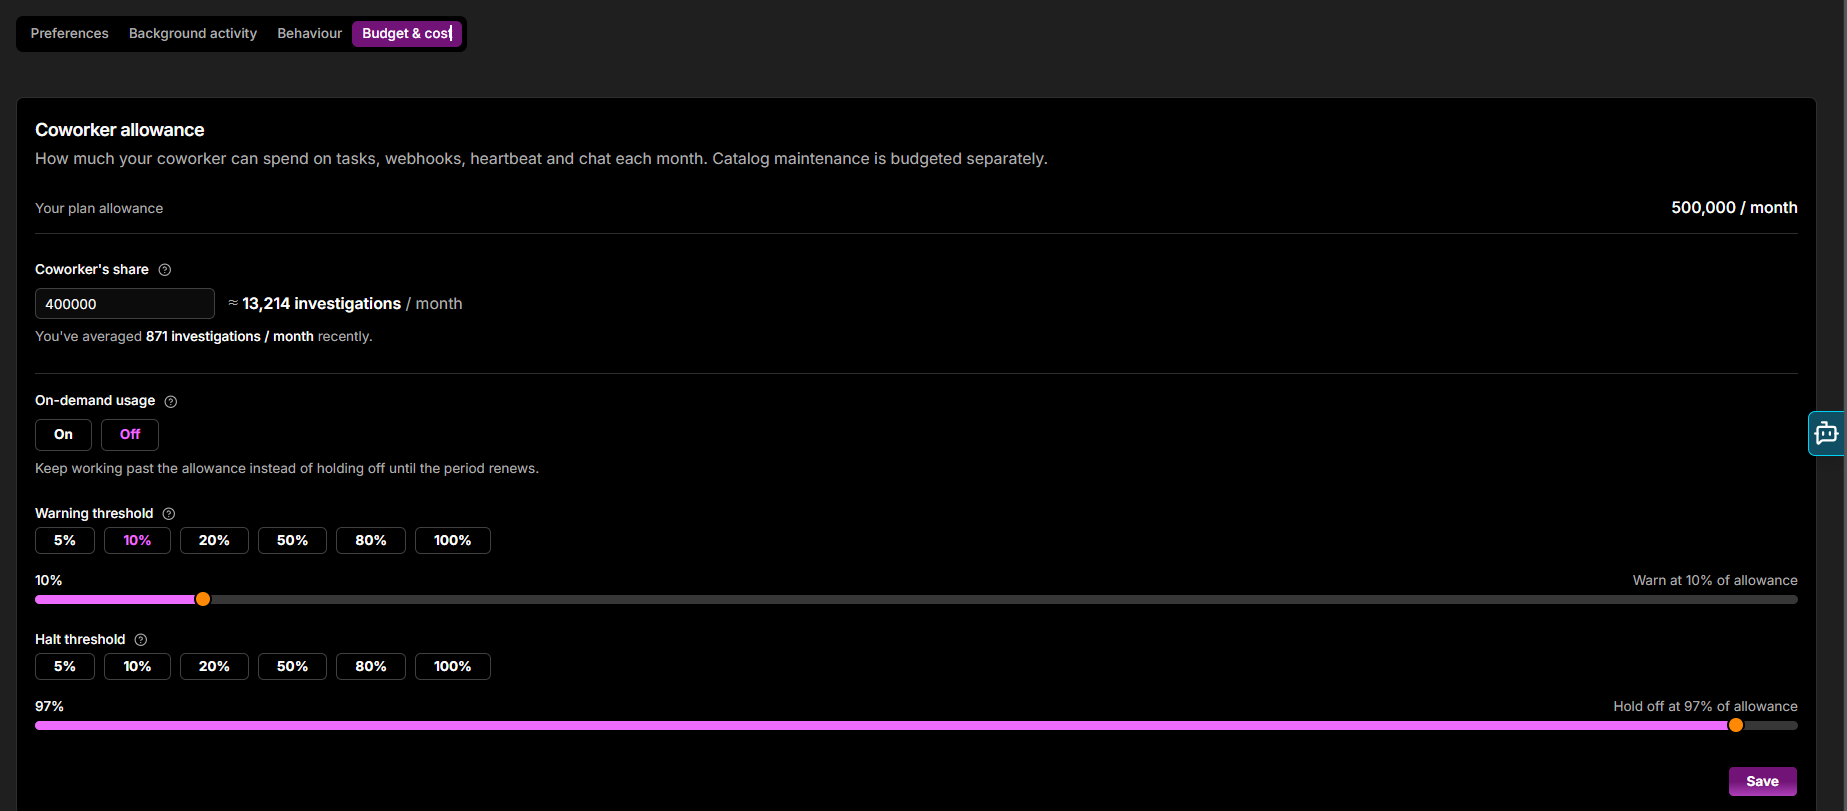
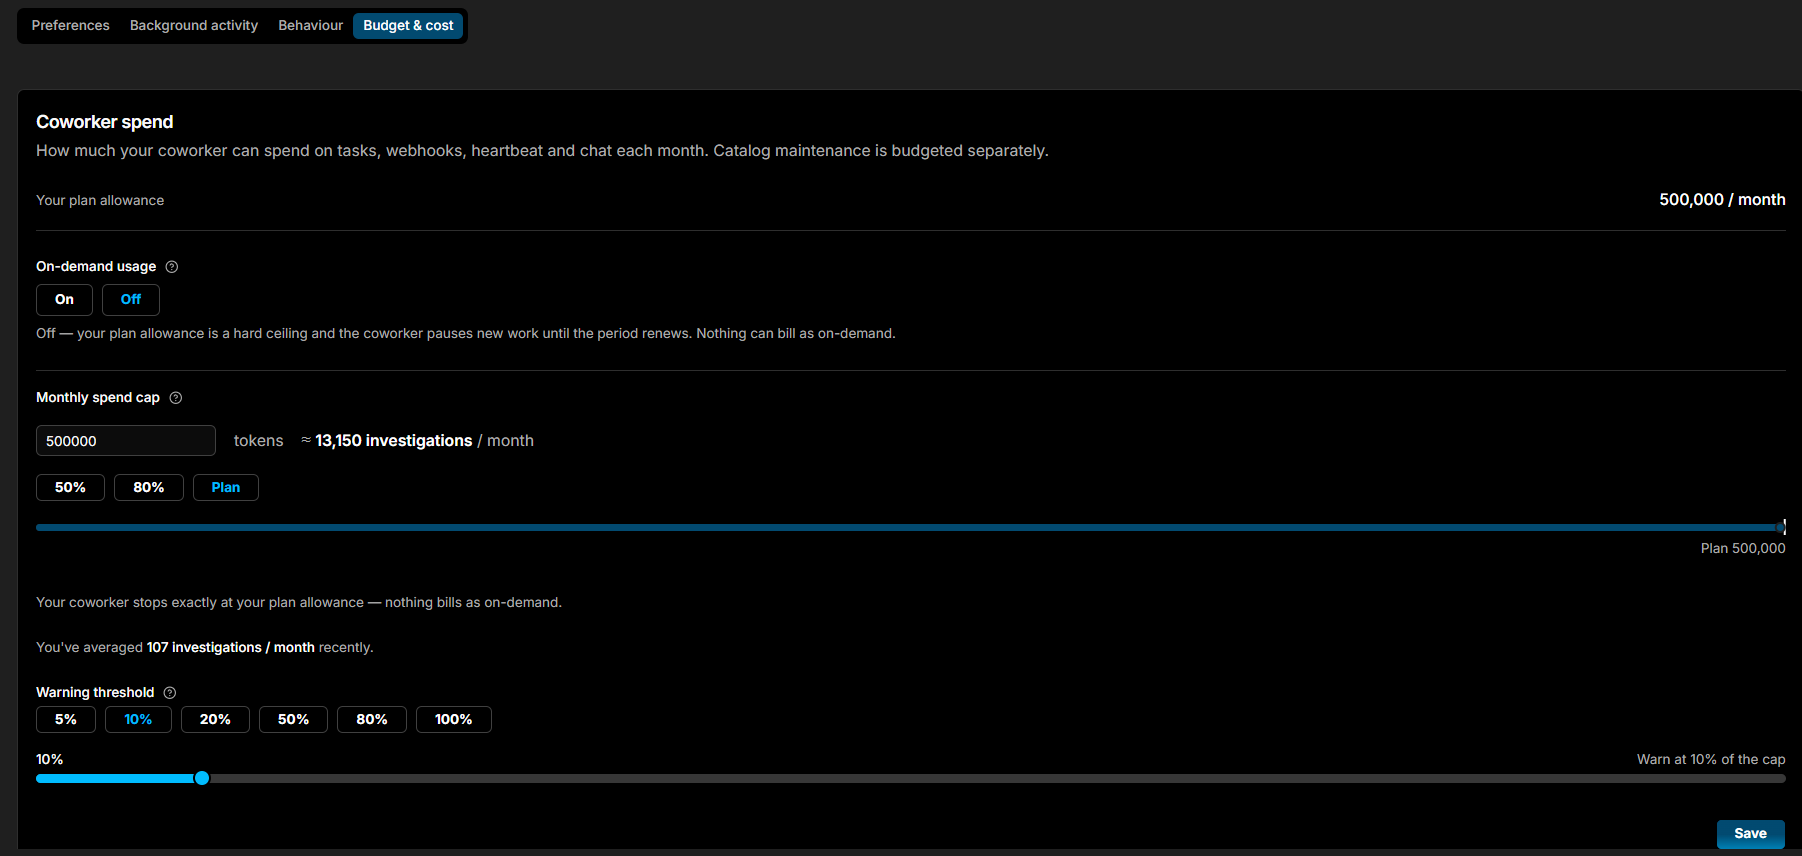
Reconcile Coworker Usage and Settings pages with the current UI
- Usage: note the suggestions pill and top banner, document the "..." menu-less
  Optimisation suggestions as a panel opened from the lightbulb (with Apply all),
  add the per-task suggestion badge and the Background sub-tab Total row, and
  point the AI Token Allowance controls at the Budget & cost page
- Preferences: add the missing Muted services setting
- Background activity: note that each preset/option shows its projected monthly
  cost and saving vs the current setting
- Budget & cost: rework to the current model - "Coworker spend" card, Monthly
  spend cap (50/80/Plan), On-demand as a hard ceiling when off, Warning as a
  percentage of the cap; remove the old Halt threshold
- Refresh the Settings screenshots

diff --git a/docs/Data-insights/Features/OpsPilot/Coworker/usage.md b/docs/Data-insights/Features/OpsPilot/Coworker/usage.md
@@ -23,7 +23,7 @@ Usage varies depending on the amount of context, telemetry and reasoning require
 
 ## Activity tab
 
-The **Activity** tab shows what Coworker has done over a selected time range. Use the **Plan period** selector in the top right to switch between plan years, and the **Last 30 days / Last 90 days / Full period** toggle to adjust the window within that period.
+The **Activity** tab shows what Coworker has done over a selected time range. Use the **Plan period** selector in the top right to switch between plan years, and the **Last 30 days / Last 90 days / Full period** toggle to adjust the window within that period. A **suggestions** indicator (for example, **2 suggestions**) in the top right opens the [Optimization Suggestions](#optimization-suggestions) panel.
 
 ![!Screenshot](../../../../Coworker/usage-activity.png)
 
@@ -59,6 +59,8 @@ The **AI Tokens** tab gives you full visibility into AI Token spend and the cont
 
 ![!Screenshot](../../../../Coworker/usage-tokens.png)
 
+When Coworker spots a high-impact way to save tokens, it surfaces the headline suggestion as a banner at the top of the tab - for example, *"54% of your token usage this period went on Heartbeat investigations"* - with a one-click action such as **Review signals**. Open the full list from the suggestions indicator (lightbulb) - see [Optimization Suggestions](#optimization-suggestions).
+
 !!! tip
     One of the most effective ways to reduce AI Token usage over time is simply to let tasks run. As [task-specific memory](overview.md#memory) builds up, Coworker re-uses context it already knows rather than fetching it fresh on every run, reducing usage by up to 50% in some cases.
 
@@ -71,17 +73,7 @@ Below the bar, a legend breaks down usage by source:
 - **Coworker**: AI Tokens used by Coworker's task and investigation work
 - **Other**: everything else, such as direct chat conversations
 
-Click **Configure** to go to **Settings > Budget & cost**.
-
-Your **Plan allowance** is shown as a fixed value set by your plan (e.g. 5,000 tokens/month). The remaining settings are configurable:
-
-| Setting | Description |
-|---|---|
-| **Monthly task allowance** | The percentage of your plan allowance allocated to tasks and webhook investigations. Select a preset (5%, 10%, 20%, 50%, 80%, 100%) or use the slider |
-| **Warning threshold** | The percentage of your task allowance at which Coworker warns you about spend (e.g. "Warn at 50% of allowance") |
-| **Halt threshold** | The percentage at which Coworker stops running tasks (e.g. "Stop tasks at 50% of allowance") |
-
-Coworker pauses new task runs when the halt threshold is reached. Click **Save** to apply your changes.
+Click **Configure** to open **Settings > [Budget & cost](Settings/budget-cost.md)**, where you set how much Coworker can spend - your **Monthly spend cap**, whether **On-demand usage** is allowed past your plan allowance, and the **Warning threshold**. See [Budget & cost](Settings/budget-cost.md) for the full details.
 
 ### AI Token usage over time
 
@@ -101,6 +93,8 @@ The **AI Token Breakdown** table has two sub-tabs:
 | **New findings** | Findings generated by this task in the period |
 | **Period total** | Total AI Tokens consumed by this task in the period |
 
+A task with a pending optimization suggestion shows a suggestion badge (a lightbulb with a count) next to its name.
+
 Tasks that have since been deleted still appear (shown as *Deleted task*) so their past spend stays counted for the period.
 
 **Background** - shows AI Token usage from Coworker's continuous monitoring work that runs outside of named tasks. Each row shows the activity type, period total, and projected monthly cost:
@@ -112,9 +106,11 @@ Tasks that have since been deleted still appear (shown as *Deleted task*) so the
 | **Triaging new alerts** | Initial investigation of incoming alerts |
 | **Tidying the inbox** | Consolidating, merging, and closing situations |
 
+A **Total** row at the bottom sums the period total and projected monthly cost across all background activities.
+
 ### Optimization Suggestions
 
-Optimization suggestions appear at the bottom of the AI Tokens tab. Each suggestion shows a title, a plain-language explanation of the proposed change, and an estimated monthly AI Token saving (e.g. *Est. save 115 tokens/mo*). Click the chevron to expand the full detail, which includes:
+Click the **suggestions** indicator (the lightbulb showing a count, for example **2 suggestions**) to open the **Optimisation suggestions** panel - token-saving changes Coworker recommends, to review and apply the ones you want. Each suggestion shows a title, a plain-language explanation of the proposed change, and an estimated monthly AI Token saving (e.g. *Est. save 45 tokens/mo*). Click the chevron to expand the full detail, which includes:
 
 - **Why this suggestion** - Coworker's reasoning, including the pattern it observed and the estimated reduction per run
 - **Instruction changes** - the exact proposed instructions that would be applied, so you can review the change before accepting
@@ -123,6 +119,8 @@ From an expanded suggestion you can:
 
 - **Apply**: apply the change immediately
 - **Dismiss**: ignore it. Coworker won't keep pushing the same suggestion.
+
+To apply every suggestion at once, click **Apply all** at the top of the panel.
 
 Suggestions never come at the expense of monitoring quality. Coworker won't suggest anything that would reduce its ability to catch real problems. Where a task is already running efficiently, it will say so.
 

diff --git a/docs/Data-insights/Features/OpsPilot/Coworker/Settings/budget-cost.md b/docs/Data-insights/Features/OpsPilot/Coworker/Settings/budget-cost.md
@@ -1,19 +1,18 @@
 # Budget & cost
 
-The **Budget & cost** tab is a single **Coworker allowance** card that controls how much Coworker can spend each month and what happens as it approaches the limit. The allowance covers tasks, webhooks, heartbeat, and chat; catalog maintenance is budgeted separately.
+The **Budget & cost** tab is a single **Coworker spend** card that controls how much Coworker can spend each month and what happens as it approaches the limit. It covers tasks, webhooks, heartbeat, and chat; catalog maintenance is budgeted separately.
 
 ![!Screenshot](../../../../../Coworker/budget-cost.png)
 
 | Control | Description |
 |---|---|
 | **Your plan allowance** | Your organisation's total monthly AI Token allowance (read-only) |
-| **Coworker's share** | The portion of the plan allowance Coworker may spend. Enter a token amount - the panel shows the approximate number of investigations that buys per month, alongside your recent monthly average for comparison |
-| **On-demand usage** | **On / Off**, off by default. When on, Coworker keeps working past the allowance instead of holding off until the period renews. Turning it on reveals a **Stop after** field - a hard cap on the extra tokens Coworker may use beyond the allowance, shown with its equivalent cost and approximate investigation count |
-| **Warning threshold** | Sends a notification when spend reaches this percentage of the allowance. Pick a preset (5%-100%) or drag the slider. Defaults to 80% |
-| **Halt threshold** | Coworker holds off on new work when spend reaches this percentage of the allowance. Pick a preset (5%-100%) or drag the slider. Defaults to 100% |
+| **On-demand usage** | **On / Off**, off by default. **Off** makes your plan allowance a hard ceiling - Coworker pauses new work until the period renews, and nothing bills as on-demand. **On** lets Coworker keep working past the plan allowance, up to your monthly spend cap |
+| **Monthly spend cap** | The most Coworker may spend each month, in tokens. The panel shows the approximate number of investigations that buys per month, alongside your recent monthly average for comparison. Pick a preset (**50%**, **80%**, or **Plan**) or drag the slider; set it to **Plan** and Coworker stops exactly at your plan allowance |
+| **Warning threshold** | Sends a notification when spend reaches this percentage of the cap. Pick a preset (**5%** - **100%**) or drag the slider |
 
 !!! warning "On-demand usage can exceed your allowance"
-    With **On-demand usage** on, Coworker keeps spending past your allowance until the period renews. Set a **Stop after** cap to bound the extra cost.
+    With **On-demand usage** on, Coworker can spend past your plan allowance, up to your **Monthly spend cap**. Set the cap to bound the extra cost.
 
 Click **Save** to apply your changes. See [AI Tokens](../usage.md#ai-token-allowance) for full usage details and optimisation suggestions.
 

diff --git a/docs/Data-insights/Features/OpsPilot/Coworker/Settings/preferences.md b/docs/Data-insights/Features/OpsPilot/Coworker/Settings/preferences.md
@@ -15,6 +15,7 @@ Feed relevance shapes what reaches your personal feed. You can also ask Coworker
 |---|---|
 | **Your role** | Pick as many roles as fit: Developer, SRE / DevOps, Tech lead, or Manager / leadership. If every role you pick is a leadership one, Coworker keeps low-level observations out of your feed and surfaces only the things worth escalating |
 | **Focus services** | Service names you own or primarily work on. Glob patterns like `opspilot-*` work too. Situations affecting these services are prioritised in your feed |
+| **Muted services** | Situations on these services stay out of your feed, DMs, and notifications. Muting wins over everything else, including a service you also focus on. Glob patterns like `legacy-*` work too |
 | **Focus areas** | The kinds of things Coworker should prioritise when filtering your feed: Errors and exceptions, Application performance, Infrastructure and runtime, Databases and data stores, Data pipelines and quality, Deploys and releases, Team and delivery health, Reliability and SLOs, Cost and capacity, Security and auth |
 | **Custom keywords** | Anything beyond the domains above. A match nudges related situations into your feed |
 | **Advanced - focus area label** | A free-form team or area label that boosts situations tagged with it (e.g. `payments`, `platform infra`). Usually filled in automatically when you mention it during onboarding; set directly here if needed |

diff --git a/docs/Data-insights/Features/OpsPilot/Coworker/Settings/background-activity.md b/docs/Data-insights/Features/OpsPilot/Coworker/Settings/background-activity.md
@@ -18,7 +18,7 @@ Working style presets set your triage frequency and check-up cadence together, s
 | **Daily review** | Checks in daily and jumps on anything critical as it lands. One daily triage batch, lighter checkups | Daily | Light Touch |
 | **Background monitor** | Ambient watch with a weekly rhythm. Lowest ongoing spend; critical situations are still checked | Daily | Quiet |
 
-Selecting a preset fills in the **Triage** and **Follow-ups** controls below. You can still override either one individually afterwards.
+Each preset - and each individual **Triage** and **Follow-ups** option - shows its projected monthly cost and the saving or increase against your current setting (e.g. *1,408/mo - 674 (32%)*), so you can compare before choosing. Selecting a preset fills in the **Triage** and **Follow-ups** controls below. You can still override either one individually afterwards.
 
 ## Triage
 
